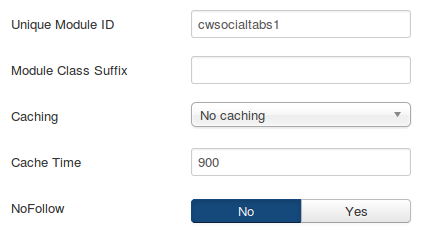
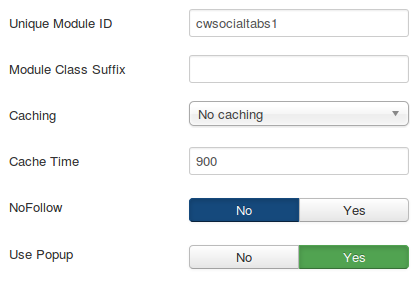
Finished Tabs guide.

diff --git a/docs/joomla/extensions/social/guide.md b/docs/joomla/extensions/social/guide.md
@@ -22,7 +22,7 @@
     -   [Follow Us Custom](#mod-follow-cus)
     -   [Advanced Options](#mod-advanced)
 
-3.  [Social Tabs Guide](#module-tabs)
+3.  [Social Tabs Guide \[Pro Version\]](#module-tabs)
     -   [First Thing](#mod-tabs-first)
     -   [General Display Options](#mod-tabs-general)
     -   [Share General](#mod-tabs-share-gen)
@@ -30,6 +30,8 @@
         - [1. Create Facebook Application](#mod-tabs-fbapp)
     -   [Follow Us A-Z](#mod-tabs-follow-az)
     -   [Follow Us Custom](#mod-tabs-follow-cus)
+    -   [Tab Colors](#mod-tabs-colors)
+    -   [Tab Order](#mod-tabs-order)
     -   [Advanced Options](#mod-tabs-advanced)
 
 4.  [Like box Module Guide](#module-lbox)
@@ -45,10 +47,10 @@
     -   [Advanced Options](#mod-gplus-advanced)
 
 6.  [Plugin Guide \[Pro Version\]](#plg)
-    -   [Content Plugin - Social Likes](#plg-content)
-    -   [Content Plugin - Social Panel](#plg-panel)
-    -   [Content Plugin - Open Graph](#plg-og)
-    -   [System Plugin - Zoo Elements](#plg-zoo)
+    -   [Content Plugin - Social Likes \[Pro Version\]](#plg-content)
+    -   [Content Plugin - Social Panel \[Pro Version\]](#plg-panel)
+    -   [Content Plugin - Open Graph \[Pro Version\]](#plg-og)
+    -   [System Plugin - Zoo Elements \[Pro Version\]](#plg-zoo)
 
 7.  [Need More Help?](#more-help)
 
@@ -551,7 +553,7 @@ blank and use the language files. \[Figure-12a\]*
 
 ![Figure-12a](images/docs/joomla/extensions/social-links/cw-slinks-mod-config-advanced2.png "Figure-12a"){.coalaweb-docs}
 
-## <a name="module-tabs"></a>Social Tabs Module
+## <a name="module-tabs"></a>Social Tabs Module \[Pro Version\]
 
 ### <a name="mod-tabs-first"></a>First Thing
 
@@ -620,7 +622,7 @@ For the social share options themselves, scroll down the list ticking the ones y
 
 To make finding the social media icons easier I have broken them up into
 groups of 5 letters organized alphabetically. For example if you are
-look for Facebook just select the F -J group. Just work your way through
+look for Facebook just select the F - J group. Just work your way through
 the groups ticking the ones you want to display and adding their
 corresponding links. *\[Figure-25f\]*
 
@@ -644,6 +646,25 @@ url for example http://coalaweb.com/images/example.png. *\[Figure-25g\]*
 
 ![Figure-25g](images/docs/joomla/extensions/social-links/cw-tabs-mod-config-follow2.png "Figure-25g"){.coalaweb-docs}
 
+### <a name="mod-tabs-colors"></a>Tab Colors
+
+In this section you have two option to choose for each of the tabs including the custom ones. The first one is the default background color of a particular tab and the second one is the hover color that the tab will change to when hovered over. You can click the input to use a popup color selector or enter the colors ***Hex** code minus the **#**. *\[Figure-25h\]*
+
+![Figure-25h](images/docs/joomla/extensions/social-links/cw-tabs-mod-config-colors.png "Figure-25h"){.coalaweb-docs}
+
+### <a name="mod-tabs-order"></a>Tab Order
+
+In this section you can choose the order you want the tabs to be displayed in. To reorder the tabs just drag and drop them to the location you want them displayed its that simple. *\[Figure-25i\]*
+
+To make it easy to identify which tab is which I have added a key letter to the end of each of their names for more details see below.
+
+#### Tab Key:
+* [S]=Share
+* [F]=Follow
+* [C]=Custom
+
+![Figure-25i](images/docs/joomla/extensions/social-links/cw-tabs-mod-config-order.png "Figure-25i"){.coalaweb-docs}
+
 ### <a name="mod-tabs-advanced"></a>Advanced Options
 
 <span class="info" markdown="1">To make it easier to follow I have broken up the **Advanced Options** into two parts.</span>
@@ -664,7 +685,7 @@ In this section you have the option to assign a **Unique Module ID**
 to stop conflicts. You can also give the it a **Module Class Suffix** or
 choose whether to use **Cache** including the **Cache Time**. Next is the 
 **NoFollow** option that provides a way to tell
-search engines not to follow a particular link. *\[Figure-25e\]*
+search engines not to follow a particular link. In the last option you can choose to have the links open in a new browser tab when clicked or open in a small **Popup** window.  *\[Figure-25e\]*
 
 ![Figure-25e](images/docs/joomla/extensions/social-links/cw-tabs-mod-config-advanced2.png "Figure-25e"){.coalaweb-docs}
 
@@ -761,7 +782,7 @@ your site is multilingual leave blank and use the language files. \[Figure-17\]*
 
 ![Figure-17](images/docs/joomla/extensions/social-links/cw-lbox-mod-config-advanced.png "Figure-17"){.coalaweb-docs}
 
-## <a name="module-gplus"></a>Google Plus Module
+## <a name="module-gplus"></a>Google Plus Module \[Pro Version\]
 
 CoalaWeb G Plus is a social module that helps you link your Google+ page
 to your site. Get more recommendations for your site in Google search
@@ -838,7 +859,7 @@ blank and use the language files. \[Figure-18d\]*
 
 ## <a name="plg"></a>Plugins \[PRO Version Only\]
 
-### <a name="plg-content"></a>Social Likes
+### <a name="plg-content"></a>Social Likes \[Pro Version\]
 
 The **CoalaWeb Social Likes** plugin is a content plugin designed to
 display all of the popular social networking vote buttons in several
@@ -850,7 +871,7 @@ you have selected the appropriate configuration options. *\[Figure-19\]*
 
 ![Figure-19](images/docs/joomla/extensions/social-links/cw-slinks-plg-content.png "Figure-19"){.coalaweb-docs}
 
-### <a name="plg-panel"></a>Social Panel
+### <a name="plg-panel"></a>Social Panel \[Pro Version\]
 
 <span class="tip" markdown="1">Social Panel needs jQuery to function correctly. If you don't already have it loaded use the System - CW Gears plugin.</span>
 
@@ -864,7 +885,7 @@ you have selected the appropriate configuration options. *\[Figure-20\]*
 
 ![Figure-20](images/docs/joomla/extensions/social-links/cw-slinks-plg-panel.png "Figure-20"){.coalaweb-docs}
 
-### <a name="plg-og"></a>Open Graph
+### <a name="plg-og"></a>Open Graph \[Pro Version\]
 
 #### What is Open Graph?
 
@@ -897,7 +918,7 @@ more details. *\[Figure-21\]*
 
 ![Figure-21](images/docs/joomla/extensions/social-links/cw-slinks-plg-opengraph.png "Figure-21"){.coalaweb-docs}
 
-### <a name="plg-zoo"></a>Zoo Elements - Social Likes
+### <a name="plg-zoo"></a>Zoo Elements - Social Likes \[Pro Version\]
 
 The **CoalaWeb Zoo Elements** plugin is a system plugin designed to
 integrate custom elements and in this case a variety of popular social
